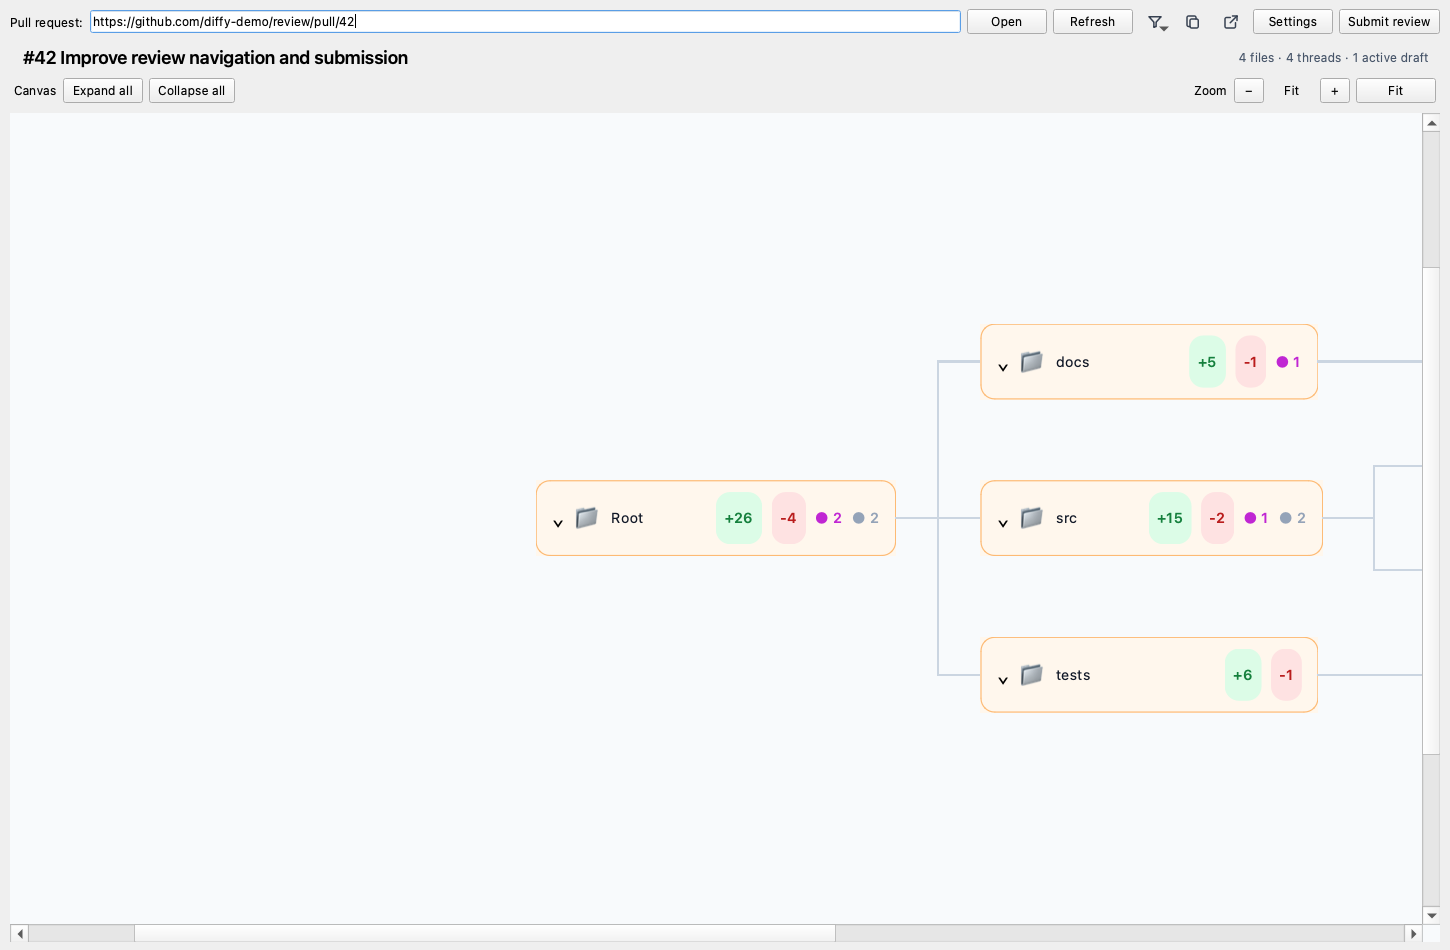
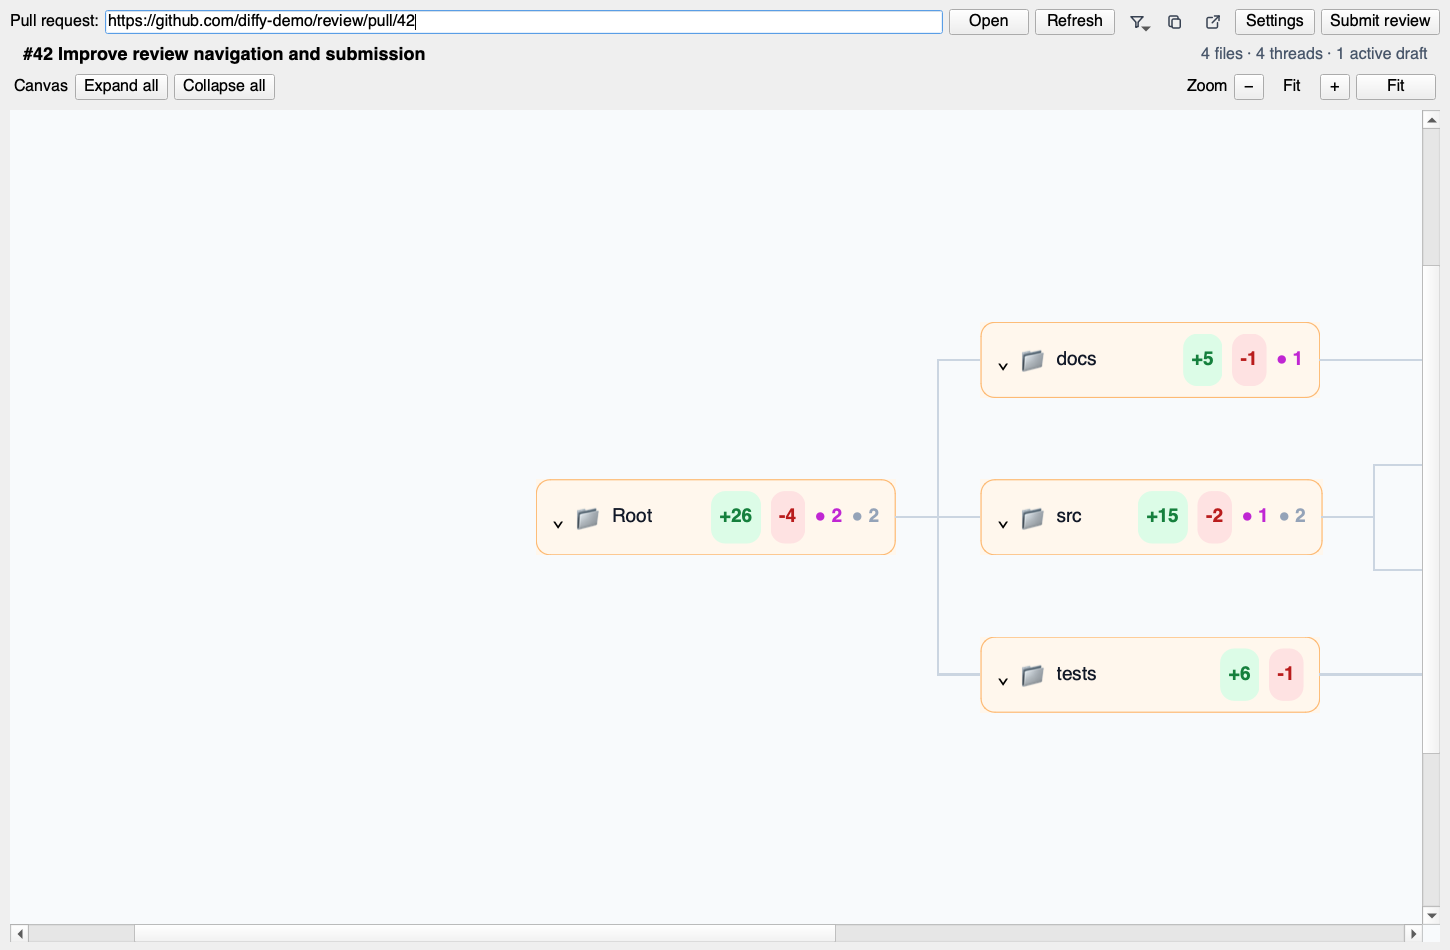
Add configurable application font

diff --git a/diffy/ui/main_window.py b/diffy/ui/main_window.py
@@ -7,7 +7,7 @@ from pathlib import Path
 from urllib.parse import quote, unquote
 
 from PySide6.QtCore import QEvent, QEasingCurve, QObject, QPoint, QParallelAnimationGroup, QPropertyAnimation, QRectF, QSettings, QRunnable, QThreadPool, QTimer, QSize, Qt, QUrl, Signal, Slot
-from PySide6.QtGui import QAction, QColor, QDesktopServices, QFont, QFontMetrics, QIcon, QInputDevice, QKeySequence, QNativeGestureEvent, QPalette, QPen, QShortcut, QWheelEvent
+from PySide6.QtGui import QAction, QColor, QDesktopServices, QFont, QFontDatabase, QFontMetrics, QIcon, QInputDevice, QKeySequence, QNativeGestureEvent, QPalette, QPen, QShortcut, QWheelEvent
 from PySide6.QtWidgets import (
     QAbstractItemView,
     QApplication,
@@ -16,6 +16,7 @@ from PySide6.QtWidgets import (
     QDialogButtonBox,
     QFileDialog,
     QFormLayout,
+    QFontComboBox,
     QGraphicsProxyWidget,
     QGraphicsScene,
     QGraphicsView,
@@ -135,10 +136,14 @@ class DiffViewer(QTextBrowser):
         self.setContextMenuPolicy(Qt.ContextMenuPolicy.CustomContextMenu)
         self.customContextMenuRequested.connect(self._context_menu_requested)
         self.setFont(QFont("SF Mono", 12))
+        self.ui_font_family = "Helvetica"
         self.setStyleSheet("QTextBrowser { background: #ffffff; color: #111827; border: 0; }")
         self.lines = []
         self.file_path = ""
         self.selected_index: int | None = None
+
+    def set_ui_font(self, font_family: str) -> None:
+        self.ui_font_family = font_family
 
     def _inline_comment(self, author: str, body: str, resolved: bool = False) -> str:
         body_html = html.escape(body).replace("\n", "<br>")
@@ -227,13 +232,13 @@ class DiffViewer(QTextBrowser):
             "body { background: #ffffff; color: #111827; margin: 0; }"
             ".diff-line { font-family: 'SF Mono'; font-size: 12pt; white-space: pre; }"
             ".diff-line a { display: block; padding: 3px 8px; text-decoration: none; }"
-            ".file-comments-header { margin: 8px 14px 4px 14px; color: #86198f; font-family: -apple-system; font-size: 11pt; font-weight: 700; }"
-            ".inline-comment { margin: 4px 14px 10px 78px; padding: 9px 12px; border-left: 3px solid #c026d3; border-radius: 4px; background: #faf5ff; color: #312e81; font-family: -apple-system; font-size: 11pt; white-space: normal; }"
+            f".file-comments-header {{ margin: 8px 14px 4px 14px; color: #86198f; font-family: '{html.escape(self.ui_font_family)}'; font-size: 11pt; font-weight: 700; }}"
+            f".inline-comment {{ margin: 4px 14px 10px 78px; padding: 9px 12px; border-left: 3px solid #c026d3; border-radius: 4px; background: #faf5ff; color: #312e81; font-family: '{html.escape(self.ui_font_family)}'; font-size: 11pt; white-space: normal; }}"
             ".inline-comment.resolved { border-left-color: #94a3b8; background: #f8fafc; color: #475569; }"
             ".comment-meta { font-weight: 600; margin-bottom: 3px; }"
             ".comment-dot { color: #c026d3; }"
             ".thread-actions { margin: -4px 14px 10px 78px; white-space: normal; }"
-            ".thread-actions a { display: inline-block; margin-right: 8px; padding: 4px 12px; border: 1px solid #d1d5db; border-radius: 6px; background: #f3f4f6; color: #374151; font-family: -apple-system; font-size: 11pt; text-decoration: none; }"
+            f".thread-actions a {{ display: inline-block; margin-right: 8px; padding: 4px 12px; border: 1px solid #d1d5db; border-radius: 6px; background: #f3f4f6; color: #374151; font-family: '{html.escape(self.ui_font_family)}'; font-size: 11pt; text-decoration: none; }}"
             ".thread-actions a:hover { background: #e5e7eb; border-color: #9ca3af; }"
             ".empty-diff { color: #6b7280; padding: 8px; }"
             "</style>"
@@ -283,7 +288,7 @@ class DiffViewer(QTextBrowser):
 
 
 class ShortcutDialog(QDialog):
-    def __init__(self, shortcuts: dict[str, QKeySequence], center_duration: int, parent: QWidget | None = None):
+    def __init__(self, shortcuts: dict[str, QKeySequence], center_duration: int, font_family: str, parent: QWidget | None = None):
         super().__init__(parent)
         self.setWindowTitle("Settings")
         self.edits: dict[str, QKeySequenceEdit] = {}
@@ -292,6 +297,8 @@ class ShortcutDialog(QDialog):
         self.center_duration.setSingleStep(25)
         self.center_duration.setSuffix(" ms")
         self.center_duration.setValue(center_duration)
+        self.font_selector = QFontComboBox()
+        self.font_selector.setCurrentFont(QFont(font_family))
         layout = QVBoxLayout(self)
         form = QFormLayout()
         for shortcut_id, label in SHORTCUT_LABELS.items():
@@ -300,6 +307,7 @@ class ShortcutDialog(QDialog):
             self.edits[shortcut_id] = edit
             form.addRow(label, edit)
         form.addRow("Canvas centering duration", self.center_duration)
+        form.addRow("Application font", self.font_selector)
         layout.addLayout(form)
         buttons = QDialogButtonBox(QDialogButtonBox.StandardButton.Cancel | QDialogButtonBox.StandardButton.Ok)
         reset_button = buttons.addButton("Restore defaults", QDialogButtonBox.ButtonRole.ResetRole)
@@ -307,7 +315,7 @@ class ShortcutDialog(QDialog):
         buttons.accepted.connect(self._accept)
         buttons.rejected.connect(self.reject)
         layout.addWidget(buttons)
-        self.resize(460, 420)
+        self.resize(500, 600)
 
     def restore_defaults(self) -> None:
         for shortcut_id, default in SHORTCUT_DEFAULTS.items():
@@ -329,6 +337,9 @@ class ShortcutDialog(QDialog):
 
     def centering_duration(self) -> int:
         return self.center_duration.value()
+
+    def font_family(self) -> str:
+        return self.font_selector.currentFont().family()
 
 
 class QuickSearchDialog(QDialog):
@@ -460,6 +471,7 @@ class SpatialCanvas(QGraphicsView):
         self.setRenderHints(self.renderHints())
         self.zoom = 1.0
         self.fit_scale = 1.0
+        self.font_family = "Helvetica"
         self.auto_fit = True
         self.collapsed_folders: set[str] = set()
         self.tree: dict = {"folders": {}, "files": []}
@@ -477,6 +489,11 @@ class SpatialCanvas(QGraphicsView):
 
     def set_center_duration(self, duration: int) -> None:
         self.center_duration = max(100, min(1000, duration))
+
+    def set_font_family(self, font_family: str) -> None:
+        self.font_family = font_family
+        if self.files:
+            self._render_tree()
 
     def set_shortcuts(self, shortcuts: dict[str, QKeySequence]) -> None:
         self.shortcuts = dict(shortcuts)
@@ -550,7 +567,7 @@ class SpatialCanvas(QGraphicsView):
         row_height = 88
         node_height = 64
         column_gap = 90
-        metrics = QFontMetrics(QFont("Helvetica", 15))
+        metrics = QFontMetrics(QFont(self.font_family, 15))
 
         def estimated_width(icon: str, name: str, status: str | None, additions: int, deletions: int, comment_counts: tuple[int, int]) -> int:
             icon_width = metrics.horizontalAdvance(icon)
@@ -1069,6 +1086,9 @@ class MainWindow(QMainWindow):
         self.hidden_reviewers: set[str] = set()
         self.settings = QSettings("namuan", "diffy")
         self.center_duration = self._load_center_duration()
+        self.font_family = self._load_font_family()
+        QApplication.setFont(QFont(self.font_family))
+        self.setFont(QFont(self.font_family))
         self.shortcut_sequences = self._load_shortcuts()
         self._build_ui()
         if initial_ref:
@@ -1166,6 +1186,7 @@ class MainWindow(QMainWindow):
         canvas_layout.addLayout(canvas_toolbar)
         self.canvas = SpatialCanvas()
         self.canvas.set_center_duration(self.center_duration)
+        self.canvas.set_font_family(self.font_family)
         self.canvas.set_shortcuts(self.shortcut_sequences)
         self.canvas.file_selected.connect(self.open_diff)
         self.canvas.zoom_changed.connect(self._update_canvas_zoom_label)
@@ -1193,6 +1214,7 @@ class MainWindow(QMainWindow):
         diff_toolbar.addStretch()
         content_layout.addLayout(diff_toolbar)
         self.diff_viewer = DiffViewer()
+        self.diff_viewer.set_ui_font(self.font_family)
         self.diff_viewer.line_selected.connect(self._line_selected)
         self.diff_viewer.comment_requested.connect(self._comment_requested)
         self.diff_viewer.thread_action.connect(self._thread_action_requested)
@@ -1249,6 +1271,14 @@ class MainWindow(QMainWindow):
         except (TypeError, ValueError):
             return 350
 
+    def _load_font_family(self) -> str:
+        default = "Helvetica"
+        if default not in QFontDatabase.families():
+            default = QFontDatabase.systemFont(QFontDatabase.SystemFont.GeneralFont).family()
+        stored = self.settings.value("appearance/font_family")
+        family = str(stored) if stored else default
+        return family if family in QFontDatabase.families() else default
+
     def _load_shortcuts(self) -> dict[str, QKeySequence]:
         shortcuts = {}
         for shortcut_id, default in SHORTCUT_DEFAULTS.items():
@@ -1257,13 +1287,19 @@ class MainWindow(QMainWindow):
         return shortcuts
 
     def show_shortcut_settings(self) -> None:
-        dialog = ShortcutDialog(self.shortcut_sequences, self.center_duration, self)
+        dialog = ShortcutDialog(self.shortcut_sequences, self.center_duration, self.font_family, self)
         if dialog.exec() != QDialog.DialogCode.Accepted:
             return
         self.shortcut_sequences = dialog.values()
         self.center_duration = dialog.centering_duration()
-        self.canvas.set_center_duration(self.center_duration)
+        self.font_family = dialog.font_family()
         self.settings.setValue("canvas/center_duration", self.center_duration)
+        self.settings.setValue("appearance/font_family", self.font_family)
+        QApplication.setFont(QFont(self.font_family))
+        self.setFont(QFont(self.font_family))
+        self.canvas.set_center_duration(self.center_duration)
+        self.canvas.set_font_family(self.font_family)
+        self.diff_viewer.set_ui_font(self.font_family)
         for shortcut_id, shortcut in self.shortcut_sequences.items():
             self.settings.setValue(
                 f"shortcuts/{shortcut_id}",

diff --git a/scripts/generate_product_tour.py b/scripts/generate_product_tour.py
@@ -7,14 +7,14 @@ import tempfile
 from pathlib import Path
 
 from PySide6.QtCore import QPoint, QTimer, Qt
-from PySide6.QtGui import QImage, QPainter
+from PySide6.QtGui import QFont, QImage, QKeySequence, QPainter
 from PySide6.QtTest import QTest
 from PySide6.QtWidgets import QApplication, QDialog, QWidget
 
 from diffy.core.models import DraftComment, PullRequest, PullRequestRef, ReviewComment, ReviewThread
 from diffy.services.gh_client import LoadedPullRequest
 from diffy.services.persistence import Persistence
-from diffy.ui.main_window import MainWindow
+from diffy.ui.main_window import MainWindow, SHORTCUT_DEFAULTS
 
 ROOT = Path(__file__).resolve().parents[1]
 OUTPUT_DIR = ROOT / "assets" / "product-tour"
@@ -221,6 +221,15 @@ def generate() -> list[tuple[str, str, str]]:
     with tempfile.TemporaryDirectory() as temporary_directory:
         persistence = Persistence(Path(temporary_directory) / "tour.sqlite3")
         window = MainWindow(persistence=persistence)
+        window.shortcut_sequences = {shortcut_id: QKeySequence(value) for shortcut_id, value in SHORTCUT_DEFAULTS.items()}
+        window.center_duration = 350
+        window.font_family = "Helvetica"
+        QApplication.setFont(QFont(window.font_family))
+        window.setFont(QFont(window.font_family))
+        window._apply_shortcuts()
+        window.canvas.set_center_duration(window.center_duration)
+        window.canvas.set_font_family(window.font_family)
+        window.diff_viewer.set_ui_font(window.font_family)
         window.resize(1450, 950)
         window.show()
         loaded = fixture_pull_request()
